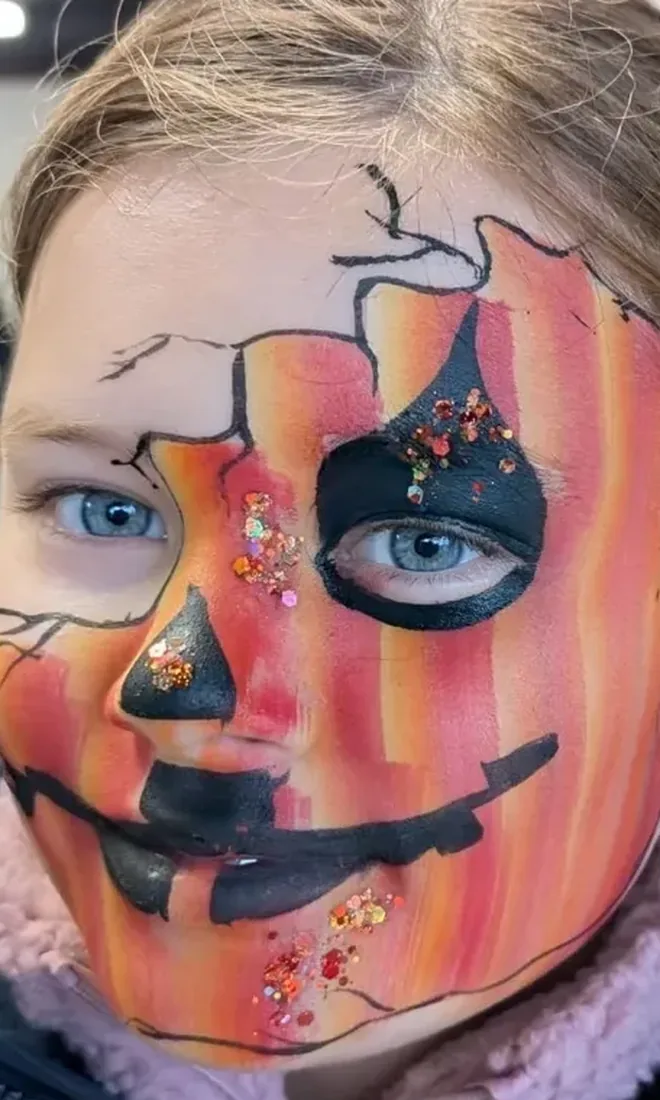
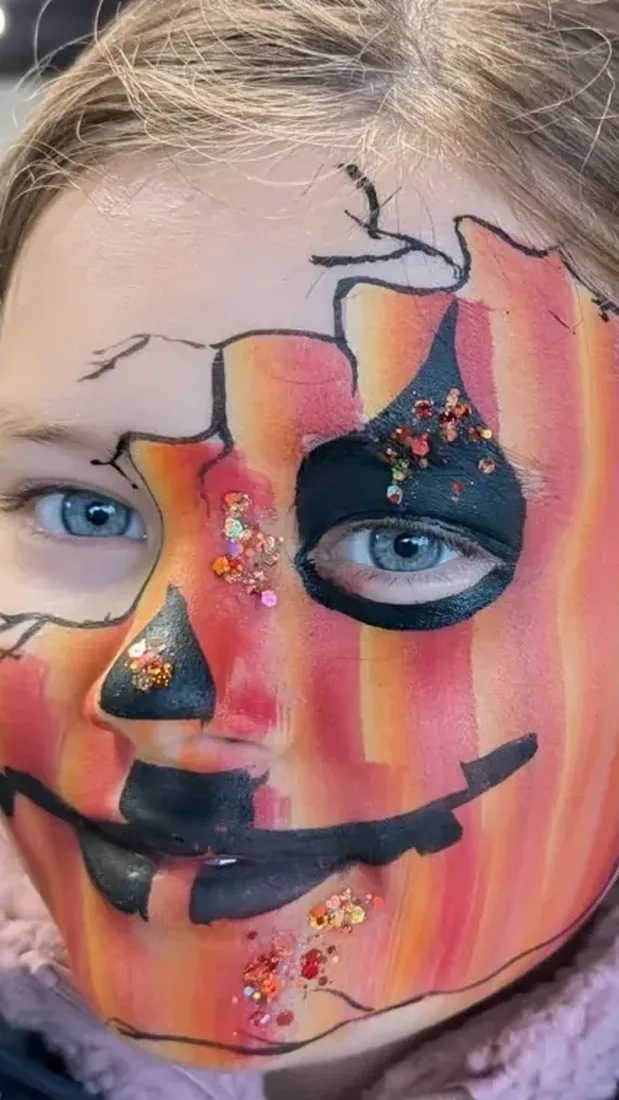
Halloween page: taller, narrower photo line
Claude-Session: https://claude.ai/code/session_012bdPLZhqYkLUzfzYFPc2Bh

diff --git a/halloween-face-painting.html b/halloween-face-painting.html
@@ -193,10 +193,10 @@ h2{font-size:clamp(32px,4.4vw,52px)}
 .dates span.hot{background:var(--orange);color:#1A0B10;border-color:transparent}
 /* strip */
 .strip-wrap{padding:8px 0 4px;background:rgba(12,5,22,.35);backdrop-filter:none}
-.strip{display:grid;grid-auto-flow:column;grid-auto-columns:minmax(330px,1fr);gap:12px;overflow-x:auto;padding:16px 16px 10px;scroll-snap-type:x mandatory;scrollbar-width:none}
+.strip{display:grid;grid-auto-flow:column;grid-auto-columns:minmax(290px,1fr);gap:12px;overflow-x:auto;padding:16px 16px 10px;scroll-snap-type:x mandatory;scrollbar-width:none}
 .strip::-webkit-scrollbar{display:none}
 .strip a{position:relative;display:block;scroll-snap-align:start;border-radius:16px;overflow:hidden;text-decoration:none;color:#fff}
-.strip img{width:100%;height:auto;aspect-ratio:3/5;object-fit:cover;object-position:50% 45%;transition:transform .4s}
+.strip img{width:100%;height:auto;aspect-ratio:9/16;object-fit:cover;object-position:50% 45%;transition:transform .4s}
 .strip a:hover img{transform:scale(1.04)}
 .strip .cap{position:absolute;left:0;right:0;bottom:0;padding:40px 14px 12px;background:linear-gradient(180deg,transparent,rgba(12,5,22,.9));display:flex;justify-content:space-between;align-items:flex-end;gap:8px}
 .strip .cap b{font:400 21px/1.1 var(--disp)}
@@ -285,8 +285,8 @@ footer .ate img{width:70px}
  .hero{min-height:auto;padding:max(96px, calc(19vh - 22px)) 0 40px}
  .hero .lede{font-size:17px}
  .ctas .btn{flex:1 1 auto}
- .strip{grid-auto-columns:76%}
- .strip img{max-height:66vh}
+ .strip{grid-auto-columns:66%}
+ .strip img{max-height:none}
  .band{padding:60px 0}
  .intro,.levels,.reviews,.gt{grid-template-columns:1fr}
  .intro{gap:26px}
@@ -309,7 +309,7 @@ footer .ate img{width:70px}
 <div class="dates"><b>Halloween is on a Saturday this year, and dates are already being booked:</b><span>Sat 24 Oct</span><span>Sun 25 Oct</span><span>Fri 30 Oct</span><span class="hot">Sat 31 Oct</span><span>Sun 1 Nov</span></div>
 </div></section>
 
-<section class="strip-wrap" aria-label="Halloween face painting by Kat"><div class="strip"><a href="https://wa.me/447852300125?text=Hi%20Kat!%20I%20love%20the%20Jack-o%27-lantern%20design.%20Are%20you%20free%20for%20a%20Halloween%20party?%20Date:%20Town:%20" target="_blank" rel="noopener" data-design="Jack-o’-lantern"><img src="halloween-pumpkin-zoom.webp" alt="Jack-o-lantern pumpkin face paint on a girl" width="660" height="1100" loading="eager"><span class="cap"><b>Jack-o’-lantern</b><i>Book this look</i></span></a><a href="https://wa.me/447852300125?text=Hi%20Kat!%20I%20love%20the%20Monster%20skull%20design.%20Are%20you%20free%20for%20a%20Halloween%20party?%20Date:%20Town:%20" target="_blank" rel="noopener" data-design="Monster skull"><img src="halloween-skull-boy-zoom.webp" alt="Monster skull face paint on a boy" width="660" height="1100" loading="eager"><span class="cap"><b>Monster skull</b><i>Book this look</i></span></a><a href="https://wa.me/447852300125?text=Hi%20Kat!%20I%20love%20the%20Red%20devil%20design.%20Are%20you%20free%20for%20a%20Halloween%20party?%20Date:%20Town:%20" target="_blank" rel="noopener" data-design="Red devil"><img src="halloween-devil-girl-zoom.webp" alt="Red devil face paint with horns on a girl" width="660" height="1100" loading="eager"><span class="cap"><b>Red devil</b><i>Book this look</i></span></a><a href="https://wa.me/447852300125?text=Hi%20Kat!%20I%20love%20the%20Werewolf%20design.%20Are%20you%20free%20for%20a%20Halloween%20party?%20Date:%20Town:%20" target="_blank" rel="noopener" data-design="Werewolf"><img src="halloween-werewolf-zoom.webp" alt="Werewolf face paint on a grown-up at a Halloween party" width="660" height="1100" loading="eager"><span class="cap"><b>Werewolf</b><i>Book this look</i></span></a><a href="https://wa.me/447852300125?text=Hi%20Kat!%20I%20love%20the%20Pink%20princess%20crown%20design.%20Are%20you%20free%20for%20a%20Halloween%20party?%20Date:%20Town:%20" target="_blank" rel="noopener" data-design="Pink princess crown"><img src="halloween-princess-zoom.webp" alt="Pink princess crown face paint with a skeleton costume" width="660" height="1100" loading="lazy"><span class="cap"><b>Pink princess crown</b><i>Book this look</i></span></a><a href="https://wa.me/447852300125?text=Hi%20Kat!%20I%20love%20the%20Grown-up%20skull%20design.%20Are%20you%20free%20for%20a%20Halloween%20party?%20Date:%20Town:%20" target="_blank" rel="noopener" data-design="Grown-up skull"><img src="halloween-adult-skull-zoom.webp" alt="Blue and white skull face paint on an adult" width="660" height="1100" loading="lazy"><span class="cap"><b>Grown-up skull</b><i>Book this look</i></span></a><a href="https://wa.me/447852300125?text=Hi%20Kat!%20I%20love%20the%20Half%20skull%20design.%20Are%20you%20free%20for%20a%20Halloween%20party?%20Date:%20Town:%20" target="_blank" rel="noopener" data-design="Half skull"><img src="halloween-half-skull-zoom.webp" alt="Half skull face paint on a boy" width="660" height="1100" loading="lazy"><span class="cap"><b>Half skull</b><i>Book this look</i></span></a><a href="https://wa.me/447852300125?text=Hi%20Kat!%20I%20love%20the%20Roaring%20monster%20design.%20Are%20you%20free%20for%20a%20Halloween%20party?%20Date:%20Town:%20" target="_blank" rel="noopener" data-design="Roaring monster"><img src="halloween-monster-zoom.webp" alt="Blue monster face paint on a roaring child" width="660" height="1100" loading="lazy"><span class="cap"><b>Roaring monster</b><i>Book this look</i></span></a><a href="https://wa.me/447852300125?text=Hi%20Kat!%20I%20love%20the%20Pumpkin%20queen%20design.%20Are%20you%20free%20for%20a%20Halloween%20party?%20Date:%20Town:%20" target="_blank" rel="noopener" data-design="Pumpkin queen"><img src="halloween-pumpkin-big-sister-zoom.webp" alt="Pumpkin face paint on a girl at a Halloween event" width="660" height="1100" loading="lazy"><span class="cap"><b>Pumpkin queen</b><i>Book this look</i></span></a><a href="https://wa.me/447852300125?text=Hi%20Kat!%20I%20love%20the%20Little%20pumpkin%20design.%20Are%20you%20free%20for%20a%20Halloween%20party?%20Date:%20Town:%20" target="_blank" rel="noopener" data-design="Little pumpkin"><img src="halloween-pumpkin-little-sister-zoom.webp" alt="Pumpkin face paint on a little girl" width="660" height="1100" loading="lazy"><span class="cap"><b>Little pumpkin</b><i>Book this look</i></span></a></div>
+<section class="strip-wrap" aria-label="Halloween face painting by Kat"><div class="strip"><a href="https://wa.me/447852300125?text=Hi%20Kat!%20I%20love%20the%20Jack-o%27-lantern%20design.%20Are%20you%20free%20for%20a%20Halloween%20party?%20Date:%20Town:%20" target="_blank" rel="noopener" data-design="Jack-o’-lantern"><img src="halloween-pumpkin-zoom.webp" alt="Jack-o-lantern pumpkin face paint on a girl" width="619" height="1100" loading="eager"><span class="cap"><b>Jack-o’-lantern</b><i>Book this look</i></span></a><a href="https://wa.me/447852300125?text=Hi%20Kat!%20I%20love%20the%20Monster%20skull%20design.%20Are%20you%20free%20for%20a%20Halloween%20party?%20Date:%20Town:%20" target="_blank" rel="noopener" data-design="Monster skull"><img src="halloween-skull-boy-zoom.webp" alt="Monster skull face paint on a boy" width="619" height="1100" loading="eager"><span class="cap"><b>Monster skull</b><i>Book this look</i></span></a><a href="https://wa.me/447852300125?text=Hi%20Kat!%20I%20love%20the%20Red%20devil%20design.%20Are%20you%20free%20for%20a%20Halloween%20party?%20Date:%20Town:%20" target="_blank" rel="noopener" data-design="Red devil"><img src="halloween-devil-girl-zoom.webp" alt="Red devil face paint with horns on a girl" width="619" height="1100" loading="eager"><span class="cap"><b>Red devil</b><i>Book this look</i></span></a><a href="https://wa.me/447852300125?text=Hi%20Kat!%20I%20love%20the%20Werewolf%20design.%20Are%20you%20free%20for%20a%20Halloween%20party?%20Date:%20Town:%20" target="_blank" rel="noopener" data-design="Werewolf"><img src="halloween-werewolf-zoom.webp" alt="Werewolf face paint on a grown-up at a Halloween party" width="619" height="1100" loading="eager"><span class="cap"><b>Werewolf</b><i>Book this look</i></span></a><a href="https://wa.me/447852300125?text=Hi%20Kat!%20I%20love%20the%20Pink%20princess%20crown%20design.%20Are%20you%20free%20for%20a%20Halloween%20party?%20Date:%20Town:%20" target="_blank" rel="noopener" data-design="Pink princess crown"><img src="halloween-princess-zoom.webp" alt="Pink princess crown face paint with a skeleton costume" width="619" height="1100" loading="lazy"><span class="cap"><b>Pink princess crown</b><i>Book this look</i></span></a><a href="https://wa.me/447852300125?text=Hi%20Kat!%20I%20love%20the%20Grown-up%20skull%20design.%20Are%20you%20free%20for%20a%20Halloween%20party?%20Date:%20Town:%20" target="_blank" rel="noopener" data-design="Grown-up skull"><img src="halloween-adult-skull-zoom.webp" alt="Blue and white skull face paint on an adult" width="619" height="1100" loading="lazy"><span class="cap"><b>Grown-up skull</b><i>Book this look</i></span></a><a href="https://wa.me/447852300125?text=Hi%20Kat!%20I%20love%20the%20Half%20skull%20design.%20Are%20you%20free%20for%20a%20Halloween%20party?%20Date:%20Town:%20" target="_blank" rel="noopener" data-design="Half skull"><img src="halloween-half-skull-zoom.webp" alt="Half skull face paint on a boy" width="619" height="1100" loading="lazy"><span class="cap"><b>Half skull</b><i>Book this look</i></span></a><a href="https://wa.me/447852300125?text=Hi%20Kat!%20I%20love%20the%20Roaring%20monster%20design.%20Are%20you%20free%20for%20a%20Halloween%20party?%20Date:%20Town:%20" target="_blank" rel="noopener" data-design="Roaring monster"><img src="halloween-monster-zoom.webp" alt="Blue monster face paint on a roaring child" width="619" height="1100" loading="lazy"><span class="cap"><b>Roaring monster</b><i>Book this look</i></span></a><a href="https://wa.me/447852300125?text=Hi%20Kat!%20I%20love%20the%20Pumpkin%20queen%20design.%20Are%20you%20free%20for%20a%20Halloween%20party?%20Date:%20Town:%20" target="_blank" rel="noopener" data-design="Pumpkin queen"><img src="halloween-pumpkin-big-sister-zoom.webp" alt="Pumpkin face paint on a girl at a Halloween event" width="619" height="1100" loading="lazy"><span class="cap"><b>Pumpkin queen</b><i>Book this look</i></span></a><a href="https://wa.me/447852300125?text=Hi%20Kat!%20I%20love%20the%20Little%20pumpkin%20design.%20Are%20you%20free%20for%20a%20Halloween%20party?%20Date:%20Town:%20" target="_blank" rel="noopener" data-design="Little pumpkin"><img src="halloween-pumpkin-little-sister-zoom.webp" alt="Pumpkin face paint on a little girl" width="619" height="1100" loading="lazy"><span class="cap"><b>Little pumpkin</b><i>Book this look</i></span></a></div>
 <p class="strip-note">Swipe for more, tap a look to book it, or <a href="https://paintingpixie.com/gallery.html">see the full gallery</a></p>
 <div class="wrap trust"><span><b>Calm and patient</b> with nervous little ones</span><span><b>★★★★★ 5.0</b> on Add to Event</span><span>Insured &amp; DBS checked</span><span>Professional skin-safe paints</span></div></section>
 
